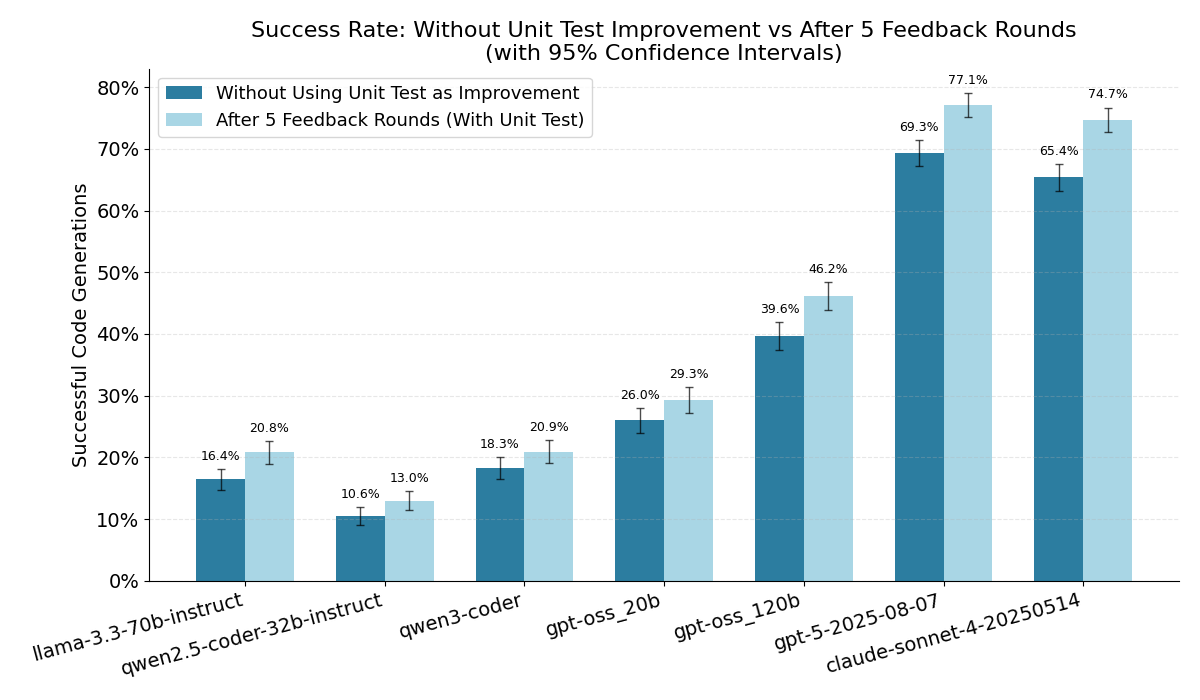
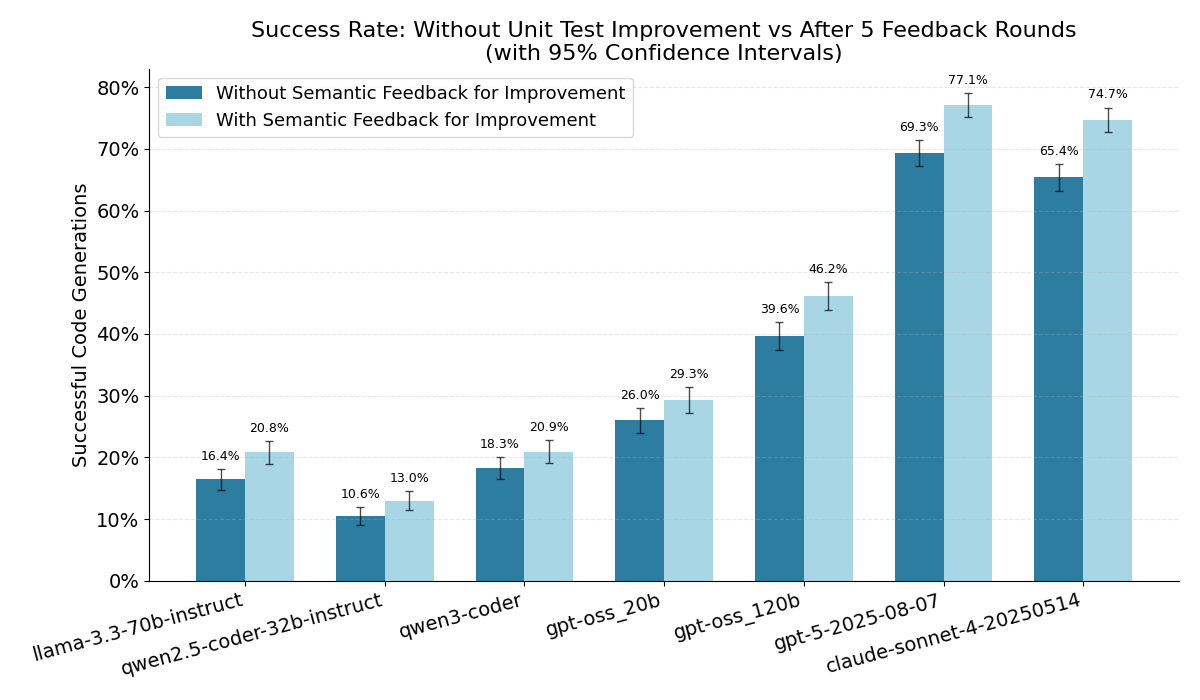
improve plots

Changed region(s): [[0.185, 0.12, 0.5242, 0.18]]

diff --git a/analysis/plot_outcome_distribution.py b/analysis/plot_outcome_distribution.py
@@ -1,0 +1,134 @@
+import pandas as pd
+import numpy as np
+import matplotlib.pyplot as plt
+from matplotlib.ticker import PercentFormatter
+from plot_style import COLORS, apply_plot_style
+
+apply_plot_style()
+
+DESIRED_ORDER = [
+    "llama-3.3-70b-instruct",
+    "codestral-22b",
+    "qwen2.5-coder-32b-instruct",
+    "qwen3-coder",
+    "gpt-oss_20b",
+    "gpt-oss_120b",
+    "gpt-5-2025-08-07",
+    "claude-sonnet-4-20250514",
+]
+
+OUTCOME_COLORS = {
+    "Class Creation Error": COLORS[0],
+    "Syntax Error":         COLORS[2],
+    "Semantic Error":       COLORS[4],
+    "Success":              COLORS[6],
+}
+
+
+def get_final_outcome(row, feedback_cols):
+    """Return the final outcome category for a single attempt."""
+    # Walk through rounds and remember the last non-empty feedback
+    last_feedback = None
+    for col in feedback_cols:
+        val = row[col]
+        if pd.isna(val) or str(val).strip() == "":
+            break
+        last_feedback = str(val).strip()
+
+    # Explicit success flag or successful unit-test message
+    if row["Success"] is True or str(row["Success"]) == "True":
+        return "Success"
+    if last_feedback == "unit tests were successful":
+        return "Success"
+
+    if last_feedback == "class could not be created":
+        return "Class Creation Error"
+    if last_feedback == "syntax check failed":
+        return "Syntax Error"
+    if last_feedback == "unit test failed":
+        return "Semantic Error"
+
+    # No feedback at all → treat as class-creation failure (generation failed immediately)
+    return "Class Creation Error"
+
+
+def get_outcome_distribution(file_path):
+    df = pd.read_csv(file_path, sep=";")
+    feedback_cols = [c for c in df.columns if c.startswith("Feedback_Round_")]
+
+    records = []
+    for _, row in df.iterrows():
+        outcome = get_final_outcome(row, feedback_cols)
+        records.append({"Model": row["Model"], "Outcome": outcome})
+
+    outcomes_df = pd.DataFrame(records)
+    counts = outcomes_df.groupby(["Model", "Outcome"]).size().unstack(fill_value=0)
+
+    # Ensure all outcome columns are present
+    for col in OUTCOME_COLORS:
+        if col not in counts.columns:
+            counts[col] = 0
+
+    counts = counts[list(OUTCOME_COLORS.keys())]
+
+    # Order models
+    available = counts.index.tolist()
+    model_order = [m for m in DESIRED_ORDER if m in available]
+    model_order += [m for m in available if m not in model_order]
+    counts = counts.reindex(model_order)
+
+    # Convert to percentages
+    totals = counts.sum(axis=1)
+    pct = counts.div(totals, axis=0) * 100
+
+    return pct, totals
+
+
+def plot_stacked_outcomes(pct, totals):
+    models = pct.index.tolist()
+    categories = list(OUTCOME_COLORS.keys())
+    colors = list(OUTCOME_COLORS.values())
+
+    _, ax = plt.subplots(figsize=(13, 7))
+    x = np.arange(len(models))
+    bar_width = 0.55
+
+    # Use white text on dark segments, dark text on light segments
+    light_cats = {"Class Creation Error", "Syntax Error"}
+
+    bottoms = np.zeros(len(models))
+    for cat, color in zip(categories, colors):
+        vals = pct[cat].values
+        bars = ax.bar(x, vals, width=bar_width, bottom=bottoms, label=cat, color=color)
+        text_color = "#333333" if cat in light_cats else "white"
+        for i, (bar, val) in enumerate(zip(bars, vals)):
+            if val >= 4:
+                ax.text(
+                    bar.get_x() + bar.get_width() / 2,
+                    bottoms[i] + val / 2,
+                    f"{val:.1f}%",
+                    ha="center",
+                    va="center",
+                    fontsize=9,
+                    color=text_color,
+                )
+        bottoms += vals
+
+    ax.set_xticks(x)
+    ax.set_xticklabels(models, rotation=15, ha="right")
+    ax.set_ylabel("Share of Attempts")
+    ax.yaxis.set_major_formatter(PercentFormatter())
+    ax.set_ylim(0, 100)
+    ax.set_title("Outcome Distribution per Model\n(Class Creation Errors, Syntax Errors, Semantic Errors, Successes)")
+    ax.legend(title="Outcome", bbox_to_anchor=(0.5, 1.08), loc="lower center", ncol=4)
+
+    plt.tight_layout()
+    output_file = "../plots/outcome_distribution_by_model.png"
+    plt.savefig(output_file, bbox_inches="tight")
+    print(f"Plot saved to {output_file}")
+
+
+if __name__ == "__main__":
+    pct, totals = get_outcome_distribution("../data/results.csv")
+    print(pct.to_string())
+    plot_stacked_outcomes(pct, totals)

diff --git a/analysis/plot_success_with_vs_without_unittest.py b/analysis/plot_success_with_vs_without_unittest.py
@@ -115,7 +115,7 @@ def plot_comparison(success_normal: Dict[str, float], success_no_ut: Dict[str, f
         x - bar_width/2, 
         no_ut_vals, 
         width=bar_width, 
-        label='Without Using Unit Test as Improvement', 
+        label='Without Semantic Feedback for Improvement', 
         color=COLORS[4], 
         yerr=no_ut_errs,
         capsize=3,
@@ -126,7 +126,7 @@ def plot_comparison(success_normal: Dict[str, float], success_no_ut: Dict[str, f
         x + bar_width/2, 
         normal_vals, 
         width=bar_width, 
-        label='After 5 Feedback Rounds (With Unit Test)', 
+        label='With Semantic Feedback for Improvement', 
         color=COLORS[0], 
         yerr=normal_errs,
         capsize=3,
